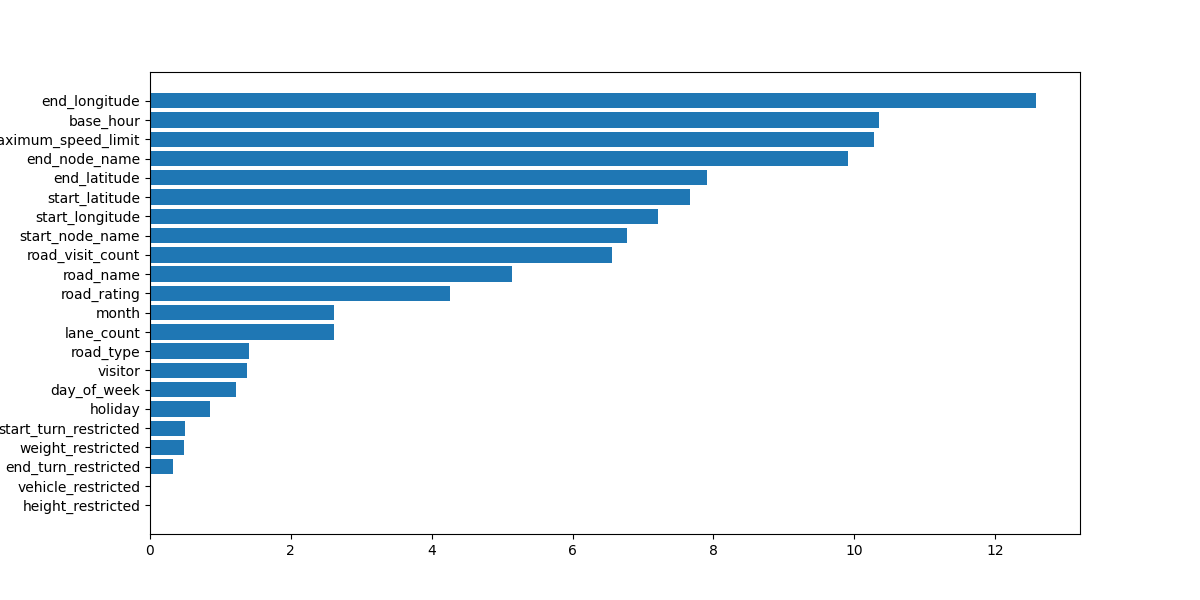
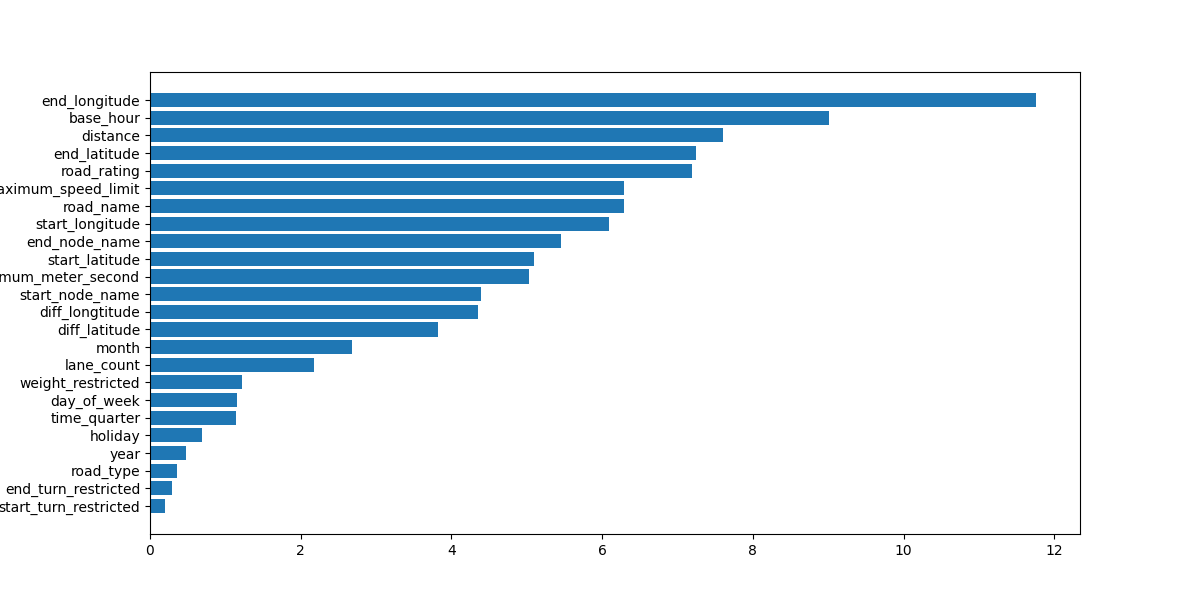
[update] multiple feature add | hyperparamter tuning 진행 중

Changed region(s): [[0.0, 0.18, 0.74, 0.87], [0.8633, 0.9, 0.8942, 0.93], [0.74, 0.9, 0.7708, 0.93]]

diff --git a/src/oym/model_test.py b/src/oym/model_test.py
@@ -1,6 +1,6 @@
 import matplotlib.pyplot as plt
 import pandas as pd
-from sklearn.preprocessing import MinMaxScaler, LabelEncoder
+from sklearn.preprocessing import MinMaxScaler, LabelEncoder, StandardScaler
 import lightgbm as lgbm
 from sklearn.model_selection import train_test_split
 from sklearn.feature_selection import SelectFromModel
@@ -13,6 +13,12 @@ import eli5
 from catboost import CatBoostRegressor
 from imblearn.over_sampling import ADASYN
 from bayes_opt import BayesianOptimization
+from sklearn.inspection import permutation_importance
+import optuna
+from optuna import Trial
+from optuna.samplers import TPESampler
+from pyproj import Geod
+
 
 data_path = '../../data/'
 train_file = 'train.csv'
@@ -39,12 +45,17 @@ def bayes_opt(model, random_state=1):
 
 def train_preprocessing():
     data = pd.read_csv(data_path + train_file, encoding='euckr')
+    data = diff_long_lat_add(data)
     data = holiday_add(data)
-    data = road_count_add(data)
+    # data = road_count_add(data)
     data = month_year_add(data)
-    data = month_visitor_add(data)
+    data = time_quarter_add(data)
+    data = meter_sec_add(data)
+    data = distance_add(data)
+    # data = month_visitor_add(data)
 
-    num_col = ['start_latitude', 'start_longitude', 'end_latitude', 'end_longitude', 'road_visit_count','visitor']
+    num_col = ['start_latitude', 'start_longitude', 'end_latitude', 'end_longitude',
+               'diff_longtitude', 'diff_latitude', 'maximum_meter_second', 'maximum_speed_limit']
     cat_col = ['road_name', 'start_node_name', 'end_node_name', 'day_of_week']
     scalers = {}
     encoders = {}
@@ -60,7 +71,7 @@ def train_preprocessing():
         encoders[col] = encoder
 
     target = data['target']
-    data = data.drop(['target','id', 'connect_code', 'multi_linked', 'year', 'vehicle_restricted', 'height_restricted'], axis=1)
+    data = data.drop(['target','id', 'multi_linked', 'connect_code', 'vehicle_restricted', 'height_restricted'], axis=1)
     exist_dict = {'없음': 0, '있음': 1}
     data = data.replace({"start_turn_restricted": exist_dict, 'end_turn_restricted': exist_dict})
     group = ['road_name', 'lane_count', 'start_turn_restricted', 'road_type',
@@ -69,6 +80,12 @@ def train_preprocessing():
     split_data = {"X_train": X_train, "X_val": X_val, "y_train": y_train, "y_val": y_val}
 
     return split_data, encoders, scalers
+
+def diff_long_lat_add(data):
+    data['diff_longtitude'] = data['end_longitude'] - data['start_longitude']
+    data['diff_latitude'] = data['end_latitude'] - data['start_latitude']
+
+    return data
 
 def holiday_add(data):
     krx = ecals.get_calendar("XKRX")
@@ -82,7 +99,6 @@ def holiday_add(data):
     data['holiday'] = data['base_date'].isin(open_date)
     holiday_exist = {True: 0, False: 1}
     data['holiday'] = data['holiday'].map(holiday_exist)
-    data['holiday'].value_counts()
 
     return data
 
@@ -95,15 +111,52 @@ def month_year_add(data):
 
     return data
 
+def time_quarter(data):
+    quarter = 3
+
+    if 6 > data >= 0:
+        quarter = 0
+
+    elif 12 > data >= 6:
+        quarter = 1
+
+    elif 18 > data >= 12:
+        quarter = 2
+
+    return quarter
+
+def time_quarter_add(data):
+    data['time_quarter'] = data['base_hour'].apply(lambda e: time_quarter(e))
+
+    return data
+
+def get_distance(data):
+    g = Geod(ellps='WGS84')
+    # 2D distance in meters with longitude, latitude of the points
+    azimuth1, azimuth2, distance_2d = g.inv(data['start_longitude'], data['start_latitude'], data['end_longitude'],
+                                            data['end_latitude'])
+
+    return distance_2d
+
+def distance_add(data):
+    data['distance'] = data.apply(get_distance,axis=1)
+
+    return data
+
+def meter_sec_add(data):
+    data['maximum_meter_second'] = data['maximum_speed_limit'] / 3.6
+
+    return data
+
 def road_count_add(data):
-    data['base_hour'] = data['base_hour'].astype(str)
-    data['base_date_hour'] = data['base_date'].astype(str) + data['base_hour'].str.zfill(2)
-    data['base_date_hour'] = pd.to_datetime(data['base_date_hour'], format='%Y%m%d%H')
-    road_visit_count = data[["base_date_hour",'road_name']]
-    road_visit_count = road_visit_count.groupby(["base_date_hour","road_name"],as_index=False).value_counts()
+    # data['base_hour'] = data['base_hour'].astype(str)
+    # data['base_date_hour'] = data['base_date'].astype(str) + data['base_hour'].str.zfill(2)
+    # data['base_date_hour'] = pd.to_datetime(data['base_date_hour'], format='%Y%m%d%H')
+    road_visit_count = data[["day_of_week",'road_name','holiday','base_hour','start_node_name','end_node_name']]
+    road_visit_count = road_visit_count.groupby(["day_of_week",'road_name','holiday','base_hour','start_node_name','end_node_name'],as_index=False).value_counts()
     road_visit_count = road_visit_count.rename(columns={"count": "road_visit_count"})
-    data = data.merge(road_visit_count, on=['base_date_hour','road_name'])
-    data = data.drop('base_date_hour', axis=1)
+    data = data.merge(road_visit_count, on=["day_of_week",'road_name','holiday','base_hour','start_node_name','end_node_name'])
+    # data = data.drop('base_date_hour', axis=1)
     data['base_hour'] = data['base_hour'].astype(int)
     data['base_date'] = data['base_date'].astype(int)
 
@@ -161,11 +214,21 @@ def cat_feature_importance(model, x_val):
     plt.show()
     plt.close()
 
-def permutation_importance(model, X_valid, y_valid, features):
-    perm = PermutationImportance(model, random_state=42).fit(X_valid, y_valid)
-    print(eli5.format_as_text(explain_weights.explain_permutation_importance(perm, feature_names=features, top=40)))
+def get_permutation_importance(model, X_valid, y_valid):
+    result = permutation_importance(
+        model, X_valid, y_valid, n_repeats=10, random_state=42
+    )
 
-    explain_weights.explain_permutation_importance(perm, feature_names=features, top=47)
+    sorted_importances_idx = result.importances_mean.argsort()
+    importances = pd.DataFrame(
+        result.importances[sorted_importances_idx].T,
+        columns=X_valid.columns[sorted_importances_idx],
+    )
+    ax = importances.plot.box(vert=False, whis=10)
+    ax.set_title("Permutation Importances (valid set)")
+    ax.axvline(x=0, color="k", linestyle="--")
+    ax.set_xlabel("Decrease in accuracy score")
+    ax.figure.tight_layout()
 
 
 def lgbm_fit(data):
@@ -184,36 +247,62 @@ def lgbm_fit(data):
     lgbm.early_stopping(stopping_rounds=100)
     model.fit(data["X_train"], data["y_train"], eval_metric='MAE', eval_set=evals,
               callbacks = [lgbm.record_evaluation(callback)])
-    permutation_importance(model, data['X_val'], data["y_val"], list(data['X_val'].columns))
+    get_permutation_importance(model, data['X_val'], data["y_val"])
     lgbm_loss_plot(callback)
     lgbm_feature_importance(model)
 
     return model
 
-def cat_boost_fit(data, learning_rate, min_child_samples, max_depth):
+def cat_boost_fit(trial):
+    data, encoders, scalers = train_preprocessing()
+
+    cbrm_param = {
+        'iterations': 200000,
+        'early_stopping_rounds': 100,
+        'eval_metric': 'MAE',
+        'learning_rate': trial.suggest_uniform('learning_rate', 0.01, 0.1),
+        'reg_lambda': trial.suggest_uniform('reg_lambda', 1e-5, 100),
+        'depth': trial.suggest_int('depth', 1, 16),
+        'min_data_in_leaf': trial.suggest_int('min_data_in_leaf', 1, 30),
+        'leaf_estimation_iterations': trial.suggest_int('leaf_estimation_iterations', 1, 15),
+        'bagging_temperature': trial.suggest_loguniform('bagging_temperature', 0.01, 100.00),
+        'devices':'0:3',
+        'task_type':'GPU',
+        'random_state' : 0
+    }
+
     evals = [(data['X_val'], data["y_val"])]
-    model = CatBoostRegressor(iterations = 250000,
-                              early_stopping_rounds=100,
-                               learning_rate=learning_rate,
-                               min_child_samples=int(min_child_samples), # 150, 200
-                               max_depth=int(max_depth),
-                               eval_metric='MAE',
-                               task_type="GPU",
-                               devices='0:1') #
+    # model = CatBoostRegressor(iterations = 200000,
+    #                           early_stopping_rounds=100,
+    #                            learning_rate=0.018,
+    #                            min_data_in_leaf=21, # 100
+    #                            max_depth=11,
+    #                            eval_metric='MAE',
+    #                            task_type="GPU",
+    #                            devices='2:3',
+    #                            reg_lambda= 14.721,
+    #                           leaf_estimation_iterations=9,
+    #                           bagging_temperature= 0.0226
+    #                           ) #
+    model = CatBoostRegressor(**cbrm_param)
     model.fit(data["X_train"], data["y_train"], eval_set=evals, verbose=True)
-    cat_loss_plot(model.evals_result_['learn']['MAE'])
-    # permutation_importance(model, data['X_val'], data["y_val"], list(data['X_val'].columns))
+    # cat_loss_plot(model.evals_result_['learn']['MAE'])
+    # get_permutation_importance(model, data['X_val'], data["y_val"])
     # cat_feature_importance(model, data['X_val'])
 
     # return model
-    return 5 - model.evals_result_['learn']['MAE'][-1]
+    return model.evals_result_['validation']['MAE'][-1]
 
 def test_preprocessing(encoders, scalers):
     data = pd.read_csv(data_path + test_file, encoding='euckr')
+    data = diff_long_lat_add(data)
     data = holiday_add(data)
+    # data = road_count_add(data)
     data = month_year_add(data)
-    data = road_count_add(data)
-    data = month_visitor_add(data)
+    data = time_quarter_add(data)
+    data = meter_sec_add(data)
+    data = distance_add(data)
+    # data = month_visitor_add(data)
     exist_dict = {'없음': 0, '있음': 1}
     data = data.replace({"start_turn_restricted": exist_dict, 'end_turn_restricted': exist_dict})
 
@@ -222,11 +311,8 @@ def test_preprocessing(encoders, scalers):
 
     for col in list(encoders.keys()):
         data[col] = encoders[col].transform(data[col])
-    # data = data.drop(['id', 'year', 'multi_linked', 'connect_code',
-    #                   'vehicle_restricted', 'height_restricted', 'start_node_name',
-    #                   'start_node_name','start_latitude','start_longitude','end_node_name',
-    #                   'end_latitude','end_longitude'], axis=1)
-    data = data.drop(['id', 'multi_linked', 'connect_code'], axis=1)
+
+    data = data.drop(['id', 'multi_linked', 'connect_code', 'vehicle_restricted', 'height_restricted'], axis=1)
 
     return data
 
@@ -237,10 +323,17 @@ def predict_to_csv(model, test_data):
     submis.to_csv(data_path + 'res_test.csv', index=False)
 
 def main():
-    train_data, encoders, scalers = train_preprocessing()
-    model = partial(cat_boost_fit, train_data)
-    bayes_opt(model)
-    # model = cat_boost_fit(train_data)
+    # train_data, encoders, scalers = train_preprocessing()
+    # model = partial(cat_boost_fit, train_data)
+    # bayes_opt(model)
+    # model = cat_boost_fit()
+    sampler = TPESampler(seed=10)
+    optuna_cbrm = optuna.create_study(direction='minimize', sampler=sampler)
+    optuna_cbrm.optimize(cat_boost_fit, n_trials=50)
+
+    cbrm_trial = optuna_cbrm.best_trial
+    cbrm_trial_params = cbrm_trial.params
+    print('Best Trial: score {},\nparams {}'.format(cbrm_trial.value, cbrm_trial_params))
     # model = lgbm_fit(train_data)
 
     # test_data = test_preprocessing(encoders, scalers)
